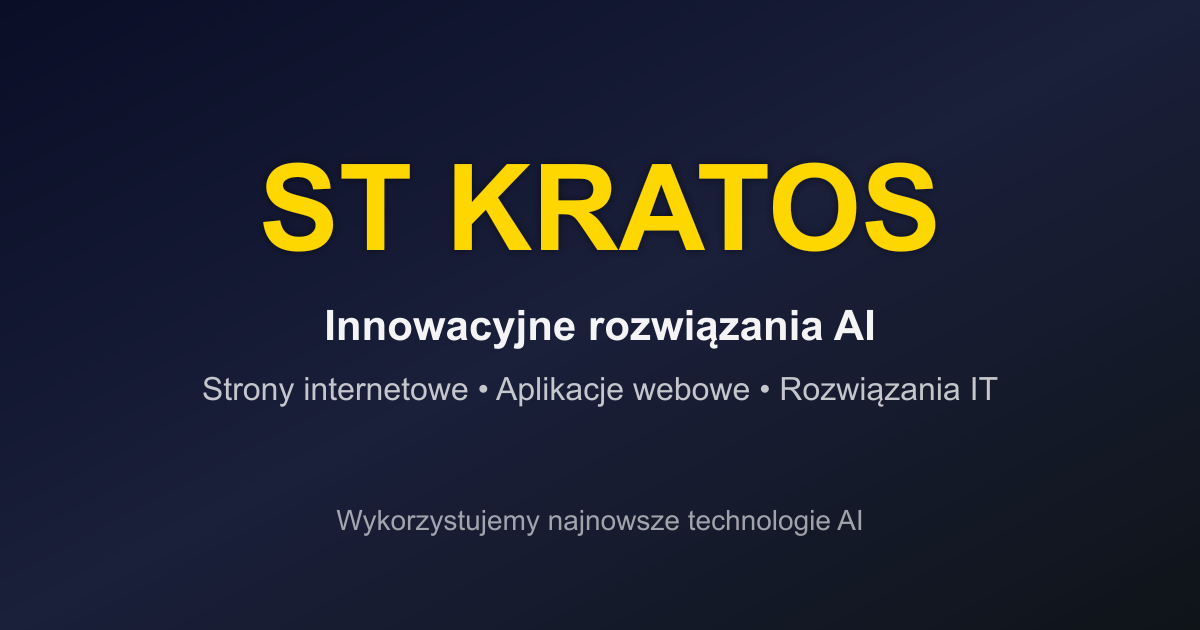
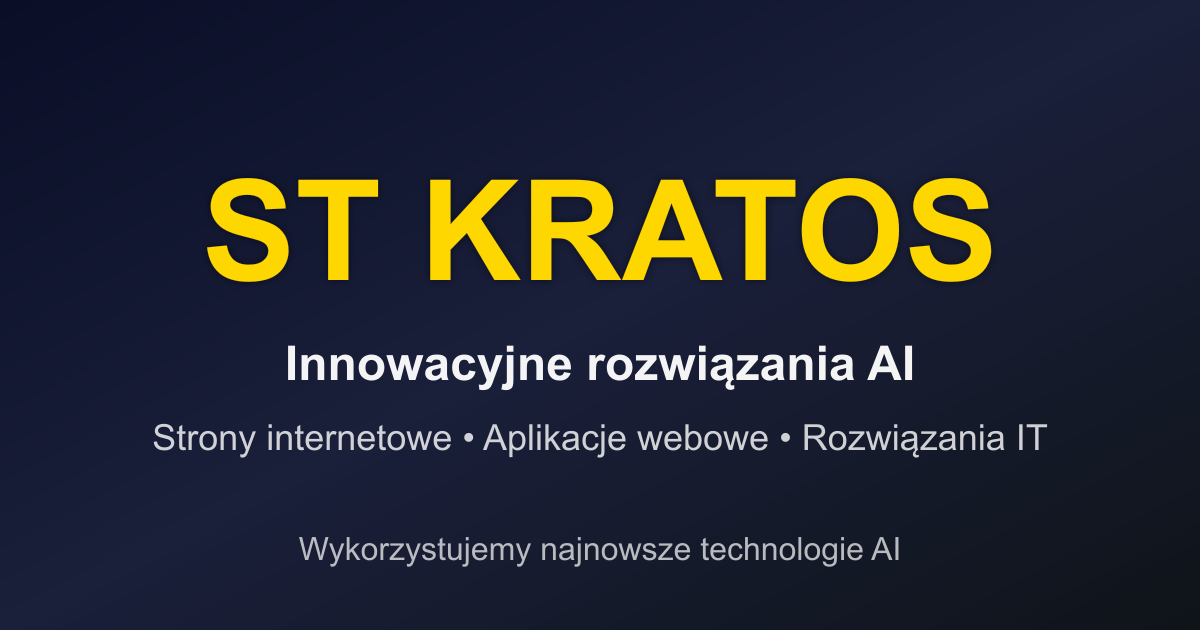
Aktualizacja og-image - tylko tekst bez zdjęcia

diff --git a/frontend/scripts/generate-og-image.js b/frontend/scripts/generate-og-image.js
@@ -9,7 +9,7 @@ const __dirname = dirname(__filename)
 const width = 1200
 const height = 630
 
-// SVG z gradientem i tekstem
+// SVG z gradientem i samym tekstem (bez zdjęcia)
 const svg = `
 <svg width="${width}" height="${height}" xmlns="http://www.w3.org/2000/svg">
   <defs>
@@ -31,11 +31,11 @@ const svg = `
     </filter>
   </defs>
   <rect width="${width}" height="${height}" fill="url(#bgGradient)"/>
-  <text x="${width/2}" y="250" font-family="Arial, sans-serif" font-size="120" font-weight="bold" fill="#FFD700" text-anchor="middle" filter="url(#shadow)">ST KRATOS</text>
-  <text x="${width/2}" y="340" font-family="Arial, sans-serif" font-size="42" font-weight="bold" fill="rgba(255,255,255,0.95)" text-anchor="middle">Innowacyjne rozwiązania AI</text>
-  <text x="${width/2}" y="400" font-family="Arial, sans-serif" font-size="32" fill="rgba(255,255,255,0.75)" text-anchor="middle">Strony internetowe • Aplikacje webowe • Rozwiązania IT</text>
-  <line x1="200" y1="480" x2="1000" y2="480" stroke="#FFD700" stroke-width="4" filter="url(#shadow)"/>
-  <text x="${width/2}" y="530" font-family="Arial, sans-serif" font-size="28" fill="rgba(255,255,255,0.6)" text-anchor="middle">Wykorzystujemy najnowsze technologie AI</text>
+  <text x="${width/2}" y="280" font-family="Arial, sans-serif" font-size="140" font-weight="bold" fill="#FFD700" text-anchor="middle" filter="url(#shadow)">ST KRATOS</text>
+  <text x="${width/2}" y="380" font-family="Arial, sans-serif" font-size="48" font-weight="bold" fill="rgba(255,255,255,0.95)" text-anchor="middle">Innowacyjne rozwiązania AI</text>
+  <text x="${width/2}" y="450" font-family="Arial, sans-serif" font-size="36" fill="rgba(255,255,255,0.8)" text-anchor="middle">Strony internetowe • Aplikacje webowe • Rozwiązania IT</text>
+  <line x1="200" y1="500" x2="1000" y2="500" stroke="#FFD700" stroke-width="5" filter="url(#shadow)"/>
+  <text x="${width/2}" y="560" font-family="Arial, sans-serif" font-size="32" fill="rgba(255,255,255,0.7)" text-anchor="middle">Wykorzystujemy najnowsze technologie AI</text>
 </svg>
 `
 
